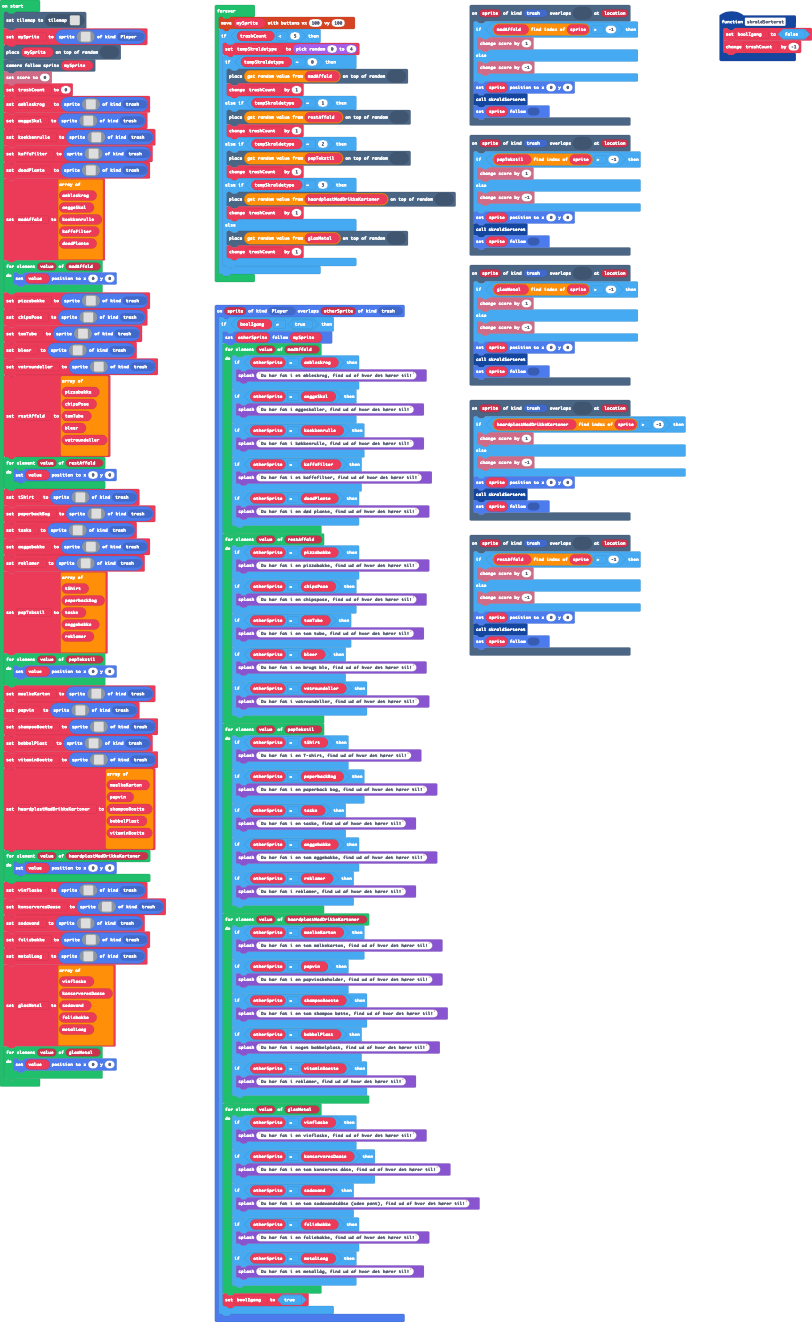
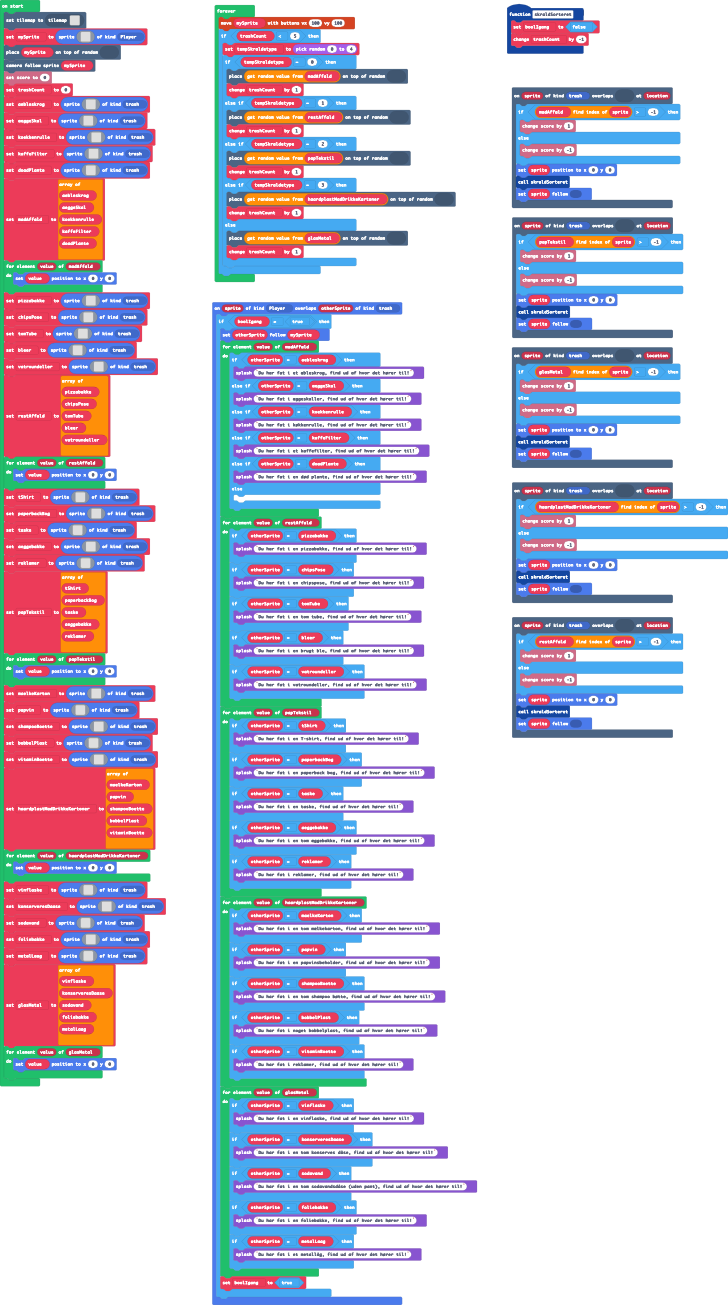
Update main.blocks, main.ts

diff --git a/main.ts b/main.ts
@@ -37,18 +37,16 @@ sprites.onOverlap(SpriteKind.Player, SpriteKind.trash, function (sprite, otherSp
         for (let value of madAffald) {
             if (otherSprite == aebleskrog) {
                 game.splash("Du har fat i et æbleskrog, find ud af hvor det hører til!")
-            }
-            if (otherSprite == aeggeSkal) {
+            } else if (otherSprite == aeggeSkal) {
                 game.splash("Du har fat i æggeskaller, find ud af hvor det hører til!")
-            }
-            if (otherSprite == koekkenrulle) {
+            } else if (otherSprite == koekkenrulle) {
                 game.splash("Du har fat i køkkenrulle, find ud af hvor det hører til!")
-            }
-            if (otherSprite == kaffeFilter) {
+            } else if (otherSprite == kaffeFilter) {
                 game.splash("Du har fat i et kaffefilter, find ud af hvor det hører til!")
-            }
-            if (otherSprite == doadPlante) {
+            } else if (otherSprite == doadPlante) {
                 game.splash("Du har fat i en død plante, find ud af hvor det hører til!")
+            } else {
+            	
             }
         }
         for (let value of restAffald) {
